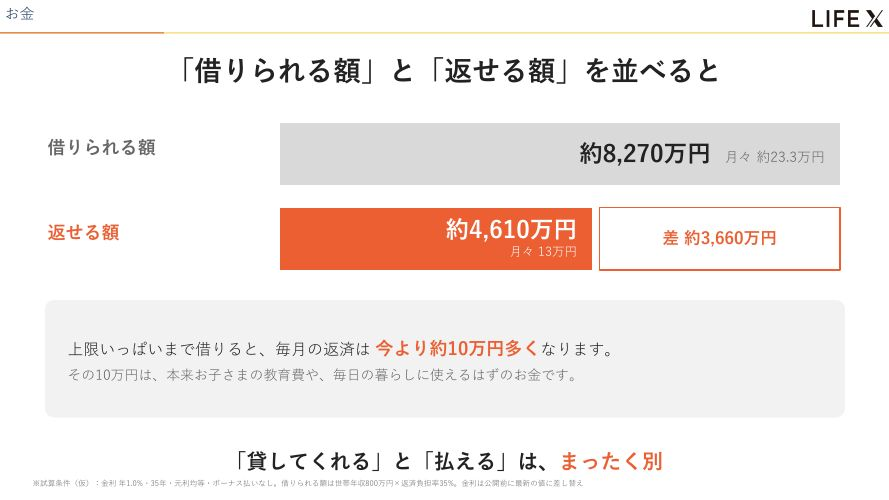
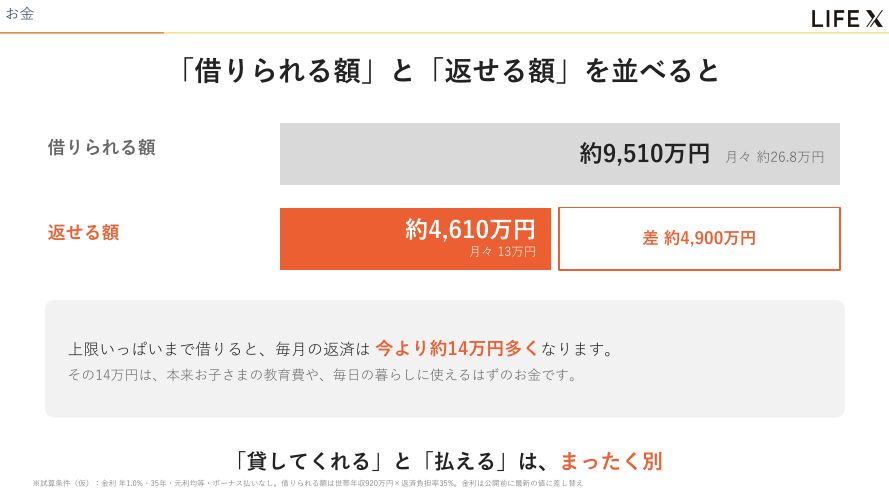
更新：実演の年収を国税庁の男女別平均給与に

diff --git a/webinar-kousei-20261120.html b/webinar-kousei-20261120.html
@@ -117,8 +117,8 @@ var NEW={
  N12:["選んだプランがはまる土地の見方","120プランの間口・奥行きから、合う土地の大きさがわかる。"],
  N13:["ご相談のご案内①：ここまでの話を、あなたの家で確かめる","お金の章の前に一度。最後まで見ない方もここで拾う。"],
  N14:["予算は「借りられる額」ではなく「返せる額」","借りられる上限で組むと、暮らしが苦しくなる。（草案）"],
- N15:["1家族の実演①：家計","例：夫700万円・妻100万円・子ども3歳のご家族。（草案の設定）"],
- N16:["1家族の実演②：返済","このご家族が無理なく返せる月々の額。"],
+ N15:["1家族の実演①：家計","夫587万円・妻333万円（国税庁「令和6年分 民間給与実態統計調査」の男女別平均給与）・子ども3歳。出発点は今の住まいに払っている額 月13万円（家賃12万＋駐車場代1万・仮）。"],
+ N16:["1家族の実演②：返済","借りられる額 約9,510万円（世帯920万円×返済負担率35%）と、返せる額 約4,610万円（月13万円）。金利1.0%・35年は仮。"],
  N17:["1家族の実演③：総額","返せる額から逆算した、建物と土地にかけられる総額。"],
  N18:["総額の内訳","建物本体・付帯工事・土地・諸費用。付帯工事と地域の仕様は、近くの加盟店様でお出しする。"],
  N19:["ご相談でわかる3つのこと","①選んだプランが土地・エリアにはまるか　②ご家族ごとの総額と月々の返済　③はまる土地の探し方"],
